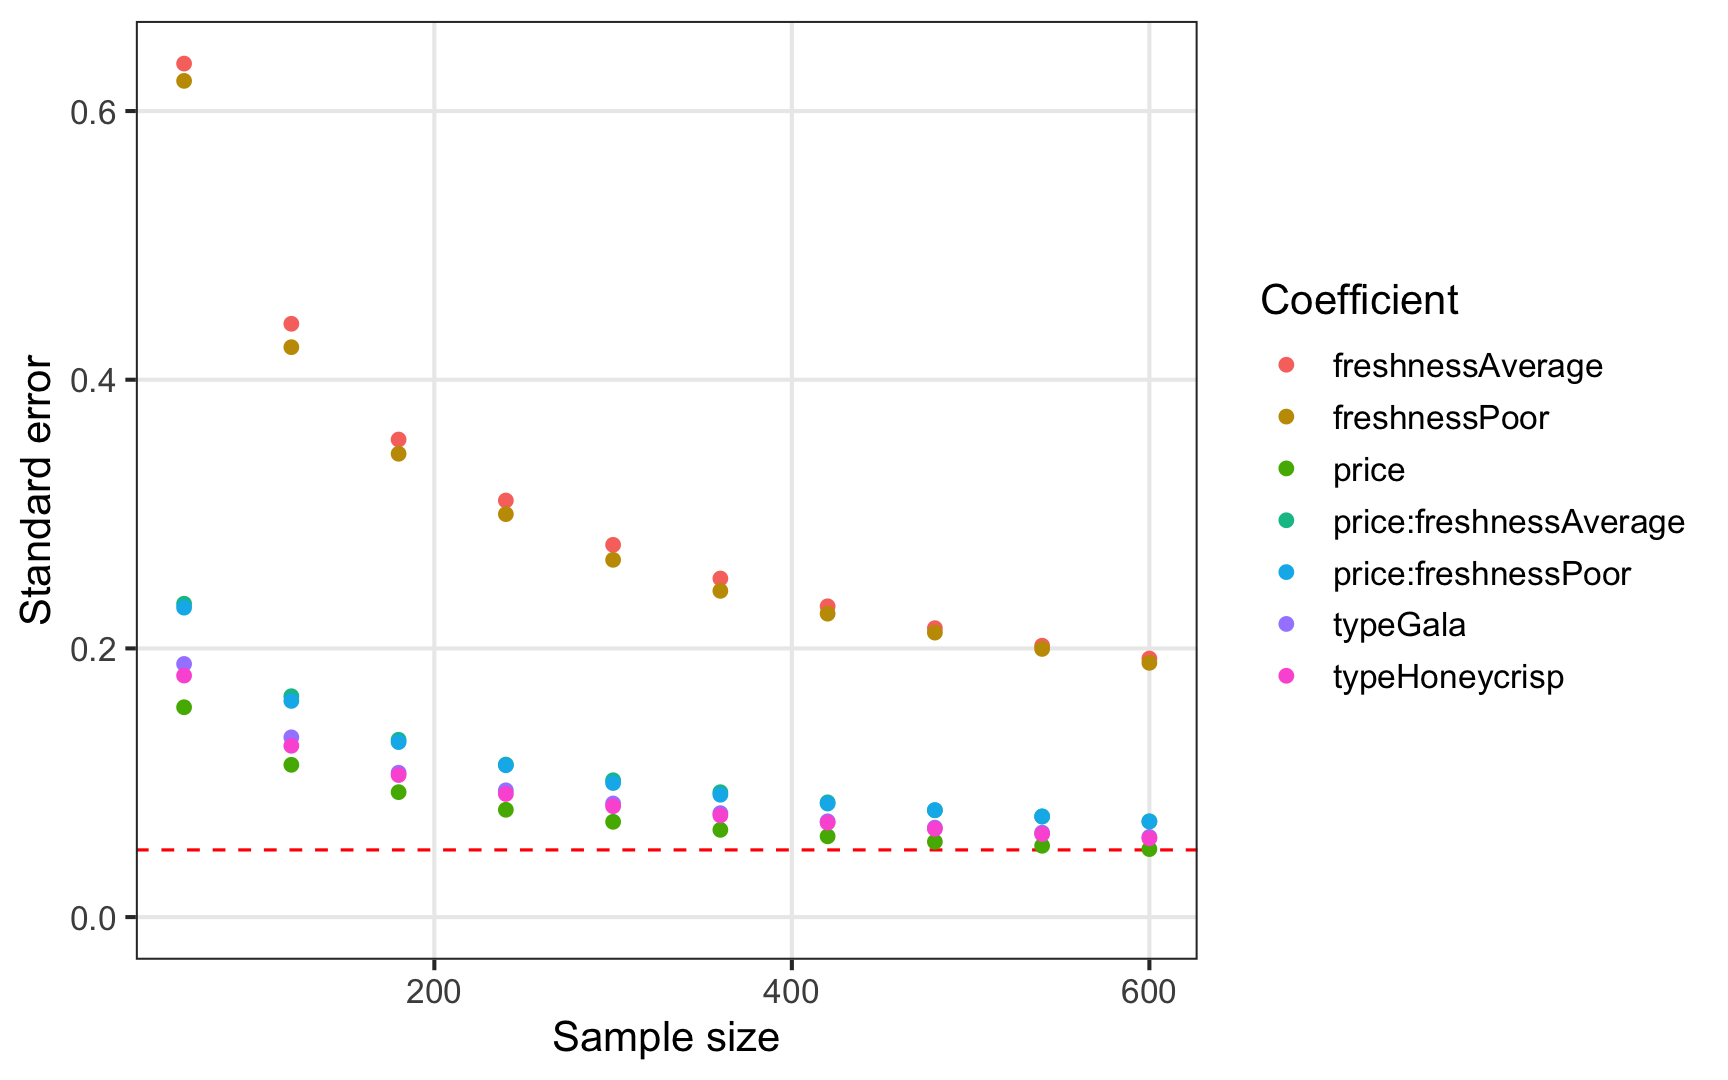
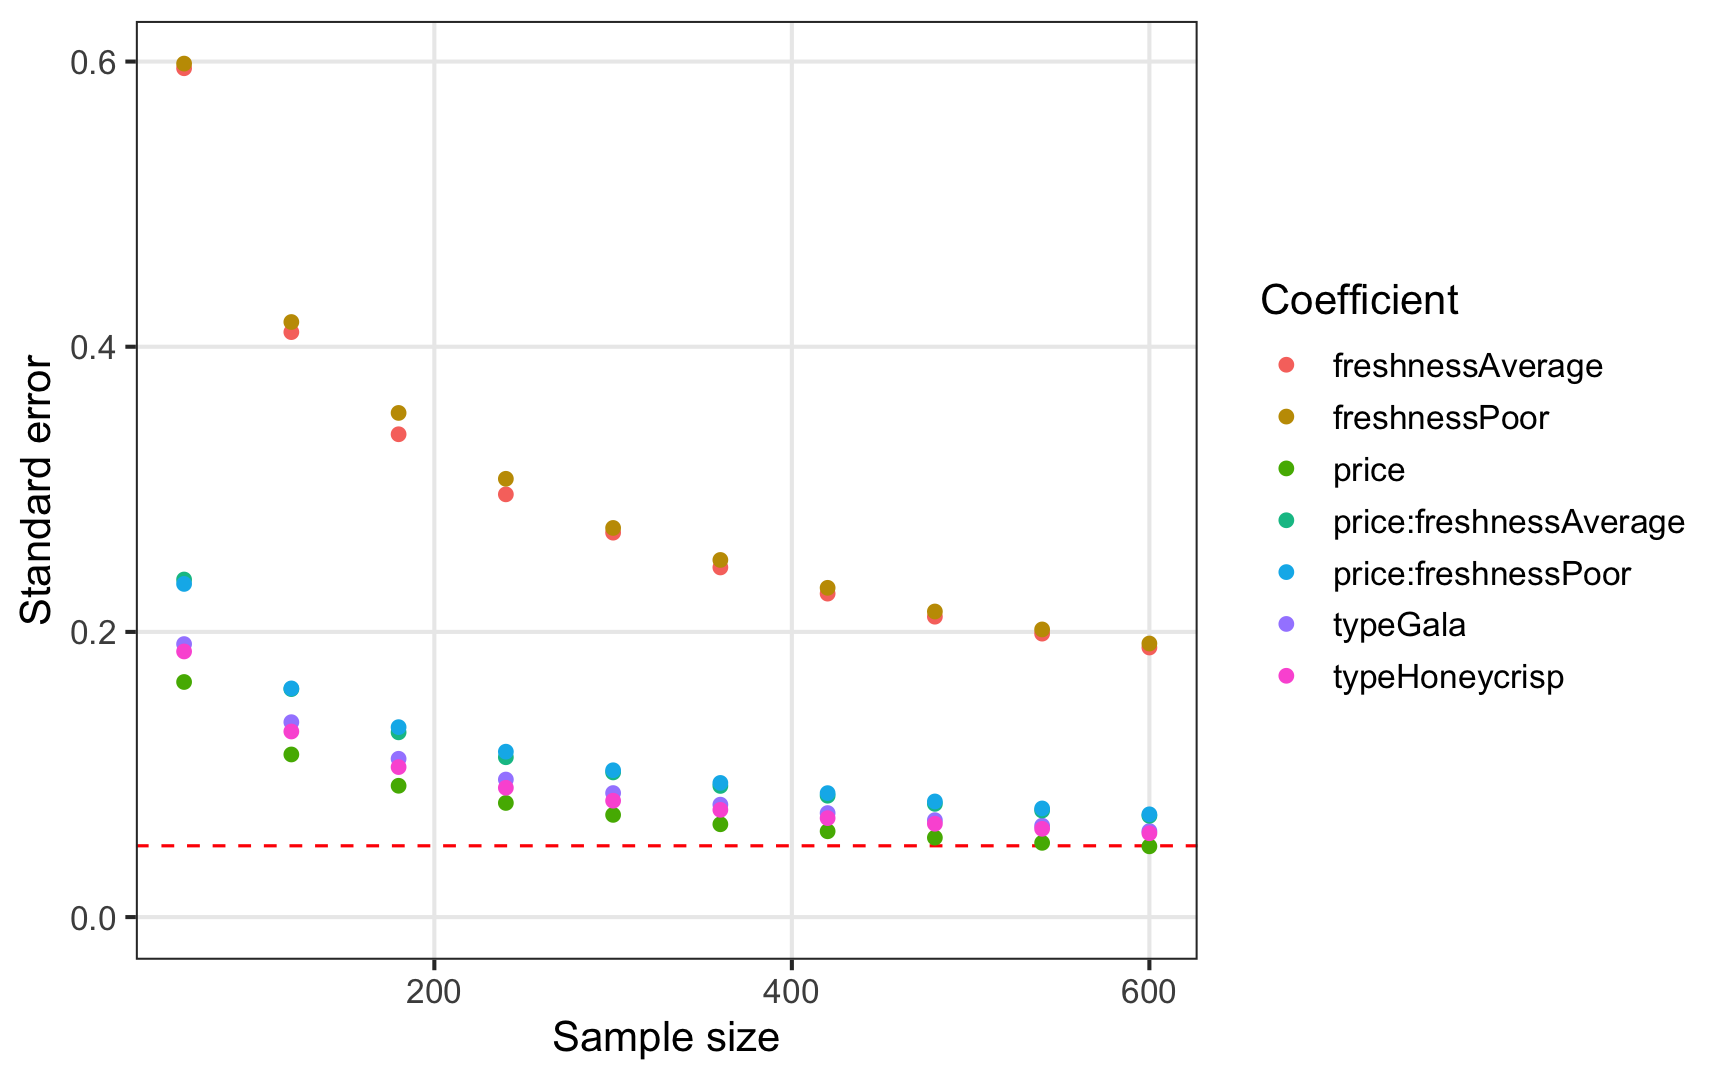
some small tweaks

diff --git a/index.html b/index.html
@@ -509,12 +509,12 @@ head(design)
 
 ```
 #&gt;   respID qID altID obsID profileID price       type freshness
-#&gt; 1      1   1     1     1        16   1.5 Honeycrisp Excellent
-#&gt; 2      1   1     2     1        23   1.5       Fuji   Average
-#&gt; 3      1   1     3     1        44   1.5       Fuji      Poor
-#&gt; 4      1   2     1     2        18   2.5 Honeycrisp Excellent
-#&gt; 5      1   2     2     2        14   4.0       Gala Excellent
-#&gt; 6      1   2     3     2         8   1.0       Gala Excellent
+#&gt; 1      1   1     1     1        42   4.0 Honeycrisp   Average
+#&gt; 2      1   1     2     1        50   1.0       Gala      Poor
+#&gt; 3      1   1     3     1        28   4.0       Fuji   Average
+#&gt; 4      1   2     1     2        31   2.0       Gala   Average
+#&gt; 5      1   2     2     2        25   2.5       Fuji   Average
+#&gt; 6      1   2     3     2        44   1.5       Fuji      Poor
 ```
 
 ---
@@ -540,20 +540,20 @@ head(design)
 ```
 
 ```
-#&gt;       respID qID altID obsID profileID price type_Fuji type_Gala type_Honeycrisp freshness_Excellent freshness_Average freshness_Poor no_choice
-#&gt; 1          1   1     1     1        37   1.5         0         0               1                   0                 1              0         0
-#&gt; 2          1   1     2     1        50   1.0         0         1               0                   0                 0              1         0
-#&gt; 3          1   1     3     1        21   4.0         0         0               1                   1                 0              0         0
-#&gt; 11000      1   1     4     1         0   0.0         0         0               0                   0                 0              0         1
-#&gt; 4          1   2     1     2         3   2.0         1         0               0                   1                 0              0         0
-#&gt; 5          1   2     2     2        28   4.0         1         0               0                   0                 1              0         0
+#&gt;   respID qID altID obsID profileID price type_Fuji type_Gala type_Honeycrisp freshness_Excellent freshness_Average freshness_Poor no_choice
+#&gt; 1      1   1     1     1        38   2.0         0         0               1                   0                 1              0         0
+#&gt; 2      1   1     2     1        59   2.0         0         0               1                   0                 0              1         0
+#&gt; 3      1   1     3     1         9   1.5         0         1               0                   1                 0              0         0
+#&gt; 4      1   1     4     1         0   0.0         0         0               0                   0                 0              0         1
+#&gt; 5      1   2     1     2        13   3.5         0         1               0                   1                 0              0         0
+#&gt; 6      1   2     2     2        15   1.0         0         0               1                   1                 0              0         0
 ```
 
 ---
 
-# .center[Make a labeled design]
+## .center[Make a labeled design]
 
-### .center[(aka "Alternative-specific design)]
+.center[.font100[(aka "alternative-specific design")]]
 
 
 ```r
@@ -575,12 +575,12 @@ head(design)
 
 ```
 #&gt;   respID qID altID obsID profileID price       type freshness
-#&gt; 1      1   1     1     1        22   1.0       Fuji   Average
-#&gt; 2      1   1     2     1        10   2.0       Gala Excellent
-#&gt; 3      1   1     3     1        58   1.5 Honeycrisp      Poor
-#&gt; 4      1   2     1     2        49   4.0       Fuji      Poor
-#&gt; 5      1   2     2     2        32   2.5       Gala   Average
-#&gt; 6      1   2     3     2        59   2.0 Honeycrisp      Poor
+#&gt; 1      1   1     1     1         2   1.5       Fuji Excellent
+#&gt; 2      1   1     2     1        55   3.5       Gala      Poor
+#&gt; 3      1   1     3     1        61   3.0 Honeycrisp      Poor
+#&gt; 4      1   2     1     2         3   2.0       Fuji Excellent
+#&gt; 5      1   2     2     2        33   3.0       Gala   Average
+#&gt; 6      1   2     3     2        36   1.0 Honeycrisp   Average
 ```
 
 ---
@@ -595,7 +595,7 @@ design &lt;- cbc_design(
   profiles = profiles,
   n_resp   = 300, # Number of respondents
   n_alts   = 3,   # Number of alternatives per question
-  n_q      = 6,    # Number of questions per respondent
+  n_q      = 6,   # Number of questions per respondent
 * priors = list(
 *   price     = -0.1,
 *   type      = c(0.1, 0.2),
@@ -616,7 +616,7 @@ design &lt;- cbc_design(
 
 --
 
-## - Import a design: .blue[Sawtooth] <svg aria-hidden="true" role="img" viewBox="0 0 448 512" style="height:1em;width:0.88em;vertical-align:-0.125em;margin-left:auto;margin-right:auto;font-size:inherit;fill:blue;overflow:visible;position:relative;"><path d="M190.5 66.9l22.2-22.2c9.4-9.4 24.6-9.4 33.9 0L441 239c9.4 9.4 9.4 24.6 0 33.9L246.6 467.3c-9.4 9.4-24.6 9.4-33.9 0l-22.2-22.2c-9.5-9.5-9.3-25 .4-34.3L311.4 296H24c-13.3 0-24-10.7-24-24v-32c0-13.3 10.7-24 24-24h287.4L190.9 101.2c-9.8-9.3-10-24.8-.4-34.3z"/></svg> <svg aria-hidden="true" role="img" viewBox="0 0 384 512" style="height:1em;width:0.75em;vertical-align:-0.125em;margin-left:auto;margin-right:auto;font-size:inherit;fill:blue;overflow:visible;position:relative;"><path d="M224 136V0H24C10.7 0 0 10.7 0 24v464c0 13.3 10.7 24 24 24h336c13.3 0 24-10.7 24-24V160H248c-13.2 0-24-10.8-24-24zm-96 144c0 4.42-3.58 8-8 8h-8c-8.84 0-16 7.16-16 16v32c0 8.84 7.16 16 16 16h8c4.42 0 8 3.58 8 8v16c0 4.42-3.58 8-8 8h-8c-26.51 0-48-21.49-48-48v-32c0-26.51 21.49-48 48-48h8c4.42 0 8 3.58 8 8v16zm44.27 104H160c-4.42 0-8-3.58-8-8v-16c0-4.42 3.58-8 8-8h12.27c5.95 0 10.41-3.5 10.41-6.62 0-1.3-.75-2.66-2.12-3.84l-21.89-18.77c-8.47-7.22-13.33-17.48-13.33-28.14 0-21.3 19.02-38.62 42.41-38.62H200c4.42 0 8 3.58 8 8v16c0 4.42-3.58 8-8 8h-12.27c-5.95 0-10.41 3.5-10.41 6.62 0 1.3.75 2.66 2.12 3.84l21.89 18.77c8.47 7.22 13.33 17.48 13.33 28.14.01 21.29-19 38.62-42.39 38.62zM256 264v20.8c0 20.27 5.7 40.17 16 56.88 10.3-16.7 16-36.61 16-56.88V264c0-4.42 3.58-8 8-8h16c4.42 0 8 3.58 8 8v20.8c0 35.48-12.88 68.89-36.28 94.09-3.02 3.25-7.27 5.11-11.72 5.11s-8.7-1.86-11.72-5.11c-23.4-25.2-36.28-58.61-36.28-94.09V264c0-4.42 3.58-8 8-8h16c4.42 0 8 3.58 8 8zm121-159L279.1 7c-4.5-4.5-10.6-7-17-7H256v128h128v-6.1c0-6.3-2.5-12.4-7-16.9z"/></svg> <svg aria-hidden="true" role="img" viewBox="0 0 448 512" style="height:1em;width:0.88em;vertical-align:-0.125em;margin-left:auto;margin-right:auto;font-size:inherit;fill:currentColor;overflow:visible;position:relative;"><path d="M190.5 66.9l22.2-22.2c9.4-9.4 24.6-9.4 33.9 0L441 239c9.4 9.4 9.4 24.6 0 33.9L246.6 467.3c-9.4 9.4-24.6 9.4-33.9 0l-22.2-22.2c-9.5-9.5-9.3-25 .4-34.3L311.4 296H24c-13.3 0-24-10.7-24-24v-32c0-13.3 10.7-24 24-24h287.4L190.9 101.2c-9.8-9.3-10-24.8-.4-34.3z"/></svg> <svg aria-hidden="true" role="img" viewBox="0 0 581 512" style="height:1em;width:1.13em;vertical-align:-0.125em;margin-left:auto;margin-right:auto;font-size:inherit;fill:blue;overflow:visible;position:relative;"><path d="M581 226.6C581 119.1 450.9 32 290.5 32S0 119.1 0 226.6C0 322.4 103.3 402 239.4 418.1V480h99.1v-61.5c24.3-2.7 47.6-7.4 69.4-13.9L448 480h112l-67.4-113.7c54.5-35.4 88.4-84.9 88.4-139.7zm-466.8 14.5c0-73.5 98.9-133 220.8-133s211.9 40.7 211.9 133c0 50.1-26.5 85-70.3 106.4-2.4-1.6-4.7-2.9-6.4-3.7-10.2-5.2-27.8-10.5-27.8-10.5s86.6-6.4 86.6-92.7-90.6-87.9-90.6-87.9h-199V361c-74.1-21.5-125.2-67.1-125.2-119.9zm225.1 38.3v-55.6c57.8 0 87.8-6.8 87.8 27.3 0 36.5-38.2 28.3-87.8 28.3zm-.9 72.5H365c10.8 0 18.9 11.7 24 19.2-16.1 1.9-33 2.8-50.6 2.9v-22.1z"/></svg>
+## - Import a design: .blue[Sawtooth] <svg aria-hidden="true" role="img" viewBox="0 0 448 512" style="height:1em;width:0.88em;vertical-align:-0.125em;margin-left:auto;margin-right:auto;font-size:inherit;fill:blue;overflow:visible;position:relative;"><path d="M190.5 66.9l22.2-22.2c9.4-9.4 24.6-9.4 33.9 0L441 239c9.4 9.4 9.4 24.6 0 33.9L246.6 467.3c-9.4 9.4-24.6 9.4-33.9 0l-22.2-22.2c-9.5-9.5-9.3-25 .4-34.3L311.4 296H24c-13.3 0-24-10.7-24-24v-32c0-13.3 10.7-24 24-24h287.4L190.9 101.2c-9.8-9.3-10-24.8-.4-34.3z"/></svg> <svg aria-hidden="true" role="img" viewBox="0 0 384 512" style="height:1em;width:0.75em;vertical-align:-0.125em;margin-left:auto;margin-right:auto;font-size:inherit;fill:blue;overflow:visible;position:relative;"><path d="M224 136V0H24C10.7 0 0 10.7 0 24v464c0 13.3 10.7 24 24 24h336c13.3 0 24-10.7 24-24V160H248c-13.2 0-24-10.8-24-24zm-96 144c0 4.42-3.58 8-8 8h-8c-8.84 0-16 7.16-16 16v32c0 8.84 7.16 16 16 16h8c4.42 0 8 3.58 8 8v16c0 4.42-3.58 8-8 8h-8c-26.51 0-48-21.49-48-48v-32c0-26.51 21.49-48 48-48h8c4.42 0 8 3.58 8 8v16zm44.27 104H160c-4.42 0-8-3.58-8-8v-16c0-4.42 3.58-8 8-8h12.27c5.95 0 10.41-3.5 10.41-6.62 0-1.3-.75-2.66-2.12-3.84l-21.89-18.77c-8.47-7.22-13.33-17.48-13.33-28.14 0-21.3 19.02-38.62 42.41-38.62H200c4.42 0 8 3.58 8 8v16c0 4.42-3.58 8-8 8h-12.27c-5.95 0-10.41 3.5-10.41 6.62 0 1.3.75 2.66 2.12 3.84l21.89 18.77c8.47 7.22 13.33 17.48 13.33 28.14.01 21.29-19 38.62-42.39 38.62zM256 264v20.8c0 20.27 5.7 40.17 16 56.88 10.3-16.7 16-36.61 16-56.88V264c0-4.42 3.58-8 8-8h16c4.42 0 8 3.58 8 8v20.8c0 35.48-12.88 68.89-36.28 94.09-3.02 3.25-7.27 5.11-11.72 5.11s-8.7-1.86-11.72-5.11c-23.4-25.2-36.28-58.61-36.28-94.09V264c0-4.42 3.58-8 8-8h16c4.42 0 8 3.58 8 8zm121-159L279.1 7c-4.5-4.5-10.6-7-17-7H256v128h128v-6.1c0-6.3-2.5-12.4-7-16.9z"/></svg> <svg aria-hidden="true" role="img" viewBox="0 0 448 512" style="height:1em;width:0.88em;vertical-align:-0.125em;margin-left:auto;margin-right:auto;font-size:inherit;fill:blue;overflow:visible;position:relative;"><path d="M190.5 66.9l22.2-22.2c9.4-9.4 24.6-9.4 33.9 0L441 239c9.4 9.4 9.4 24.6 0 33.9L246.6 467.3c-9.4 9.4-24.6 9.4-33.9 0l-22.2-22.2c-9.5-9.5-9.3-25 .4-34.3L311.4 296H24c-13.3 0-24-10.7-24-24v-32c0-13.3 10.7-24 24-24h287.4L190.9 101.2c-9.8-9.3-10-24.8-.4-34.3z"/></svg> <svg aria-hidden="true" role="img" viewBox="0 0 581 512" style="height:1em;width:1.13em;vertical-align:-0.125em;margin-left:auto;margin-right:auto;font-size:inherit;fill:blue;overflow:visible;position:relative;"><path d="M581 226.6C581 119.1 450.9 32 290.5 32S0 119.1 0 226.6C0 322.4 103.3 402 239.4 418.1V480h99.1v-61.5c24.3-2.7 47.6-7.4 69.4-13.9L448 480h112l-67.4-113.7c54.5-35.4 88.4-84.9 88.4-139.7zm-466.8 14.5c0-73.5 98.9-133 220.8-133s211.9 40.7 211.9 133c0 50.1-26.5 85-70.3 106.4-2.4-1.6-4.7-2.9-6.4-3.7-10.2-5.2-27.8-10.5-27.8-10.5s86.6-6.4 86.6-92.7-90.6-87.9-90.6-87.9h-199V361c-74.1-21.5-125.2-67.1-125.2-119.9zm225.1 38.3v-55.6c57.8 0 87.8-6.8 87.8 27.3 0 36.5-38.2 28.3-87.8 28.3zm-.9 72.5H365c10.8 0 18.9 11.7 24 19.2-16.1 1.9-33 2.8-50.6 2.9v-22.1z"/></svg>
 
 ---
 
@@ -737,12 +737,12 @@ head(data)
 
 ```
 #&gt;   respID qID altID obsID profileID price       type freshness choice
-#&gt; 1      1   1     1     1        22   1.0       Fuji   Average      1
-#&gt; 2      1   1     2     1        10   2.0       Gala Excellent      0
-#&gt; 3      1   1     3     1        58   1.5 Honeycrisp      Poor      0
-#&gt; 4      1   2     1     2        49   4.0       Fuji      Poor      0
-#&gt; 5      1   2     2     2        32   2.5       Gala   Average      1
-#&gt; 6      1   2     3     2        59   2.0 Honeycrisp      Poor      0
+#&gt; 1      1   1     1     1         2   1.5       Fuji Excellent      1
+#&gt; 2      1   1     2     1        55   3.5       Gala      Poor      0
+#&gt; 3      1   1     3     1        61   3.0 Honeycrisp      Poor      0
+#&gt; 4      1   2     1     2         3   2.0       Fuji Excellent      0
+#&gt; 5      1   2     2     2        33   3.0       Gala   Average      0
+#&gt; 6      1   2     3     2        36   1.0 Honeycrisp   Average      1
 ```
 
 ---
@@ -820,6 +820,45 @@ Attribute | Level | Utility
 
 ---
 
+# .center[Simulate choices according to a prior]
+
+.leftcol[
+
+
+```r
+data &lt;- cbc_choices(
+  design = design,
+  obsID = "obsID",
+  priors = list( 
+    price     = -0.1, 
+    type      = c(0.1, 0.2), 
+    freshness = c(0.1, -0.2),
+*   "price*type" = c(0.1, 0.5)
+  ) 
+)
+```
+
+]
+
+.rightcol[
+
+Attribute | Level | Utility 
+----------|-----------
+**Price** | Continuous | -0.1
+**Type**  | Fuji | 0
+          | Gala | 0.1
+          | Honeycrisp  | 0.2
+**Freshness**  | Average | 0
+               | Excellent | 0.1
+               | Poor  | -0.2
+**Price x Type**  | Fuji | 0
+          | Gala | 0.1
+          | Honeycrisp  | 0.5
+
+]
+
+---
+
 background-image: url("images/process_power.png")
 
 ---
@@ -830,11 +869,11 @@ background-image: url("images/process_power.png")
 ```r
 power &lt;- cbc_power(
     nbreaks = 10,
-    n_q     = 3,
+    n_q     = 6,
     data    = data,
-    pars    = c("price", "type", "freshness"),
+    obsID   = "obsID",
     outcome = "choice",
-    obsID   = "obsID"
+    pars    = c("price", "type", "freshness")
 )
 ```
 
@@ -848,13 +887,13 @@ head(power)
 ```
 
 ```
-#&gt;   sampleSize             coef          est         se
-#&gt; 1         60            price -0.007517087 0.09391854
-#&gt; 2         60         typeGala -0.190451298 0.18613421
-#&gt; 3         60   typeHoneycrisp -0.023523825 0.17815556
-#&gt; 4         60 freshnessAverage -0.058730523 0.22289304
-#&gt; 5         60    freshnessPoor -0.254283521 0.23332696
-#&gt; 6        120            price -0.078261518 0.06639471
+#&gt;   sampleSize             coef         est         se
+#&gt; 1         30            price -0.07680629 0.08950364
+#&gt; 2         30         typeGala -0.18689388 0.19033469
+#&gt; 3         30   typeHoneycrisp  0.07917155 0.17839295
+#&gt; 4         30 freshnessAverage  0.13473932 0.23422463
+#&gt; 5         30    freshnessPoor -0.13178416 0.23221158
+#&gt; 6         60            price -0.07100670 0.06466092
 ```
 
 ]
@@ -868,12 +907,12 @@ tail(power)
 
 ```
 #&gt;    sampleSize             coef         est         se
-#&gt; 45        540    freshnessPoor -0.12631082 0.07557162
-#&gt; 46        600            price -0.08542751 0.02918086
-#&gt; 47        600         typeGala  0.15639465 0.05962208
-#&gt; 48        600   typeHoneycrisp  0.23362391 0.05861713
-#&gt; 49        600 freshnessAverage  0.08841975 0.07095726
-#&gt; 50        600    freshnessPoor -0.11564530 0.07177357
+#&gt; 45        270    freshnessPoor -0.14264194 0.07574472
+#&gt; 46        300            price -0.13429588 0.02909011
+#&gt; 47        300         typeGala  0.01178206 0.05905489
+#&gt; 48        300   typeHoneycrisp  0.10359836 0.05762948
+#&gt; 49        300 freshnessAverage  0.04424171 0.07019104
+#&gt; 50        300    freshnessPoor -0.18297678 0.07198123
 ```
 
 ]
@@ -887,7 +926,7 @@ tail(power)
 plot(power)
 ```
 
-&lt;img src="figs/unnamed-chunk-29-1.png" width="576" /&gt;
+&lt;img src="figs/unnamed-chunk-30-1.png" width="576" /&gt;
 
 ---
 
@@ -899,13 +938,13 @@ plot(power)
 ```r
 power_int &lt;- cbc_power(
     nbreaks = 10,
-    n_q     = 3,
+    n_q     = 6,
     data    = data,
     pars    = c(
       "price", 
       "type", 
       "freshness", 
-*     "price*freshness"
+*     "price*type"
     ), 
     outcome = "choice",
     obsID   = "obsID"
@@ -921,7 +960,7 @@ power_int &lt;- cbc_power(
 plot(power_int)
 ```
 
-&lt;img src="figs/unnamed-chunk-31-1.png" width="576" /&gt;
+&lt;img src="figs/unnamed-chunk-32-1.png" width="576" /&gt;
 
 ]
 
